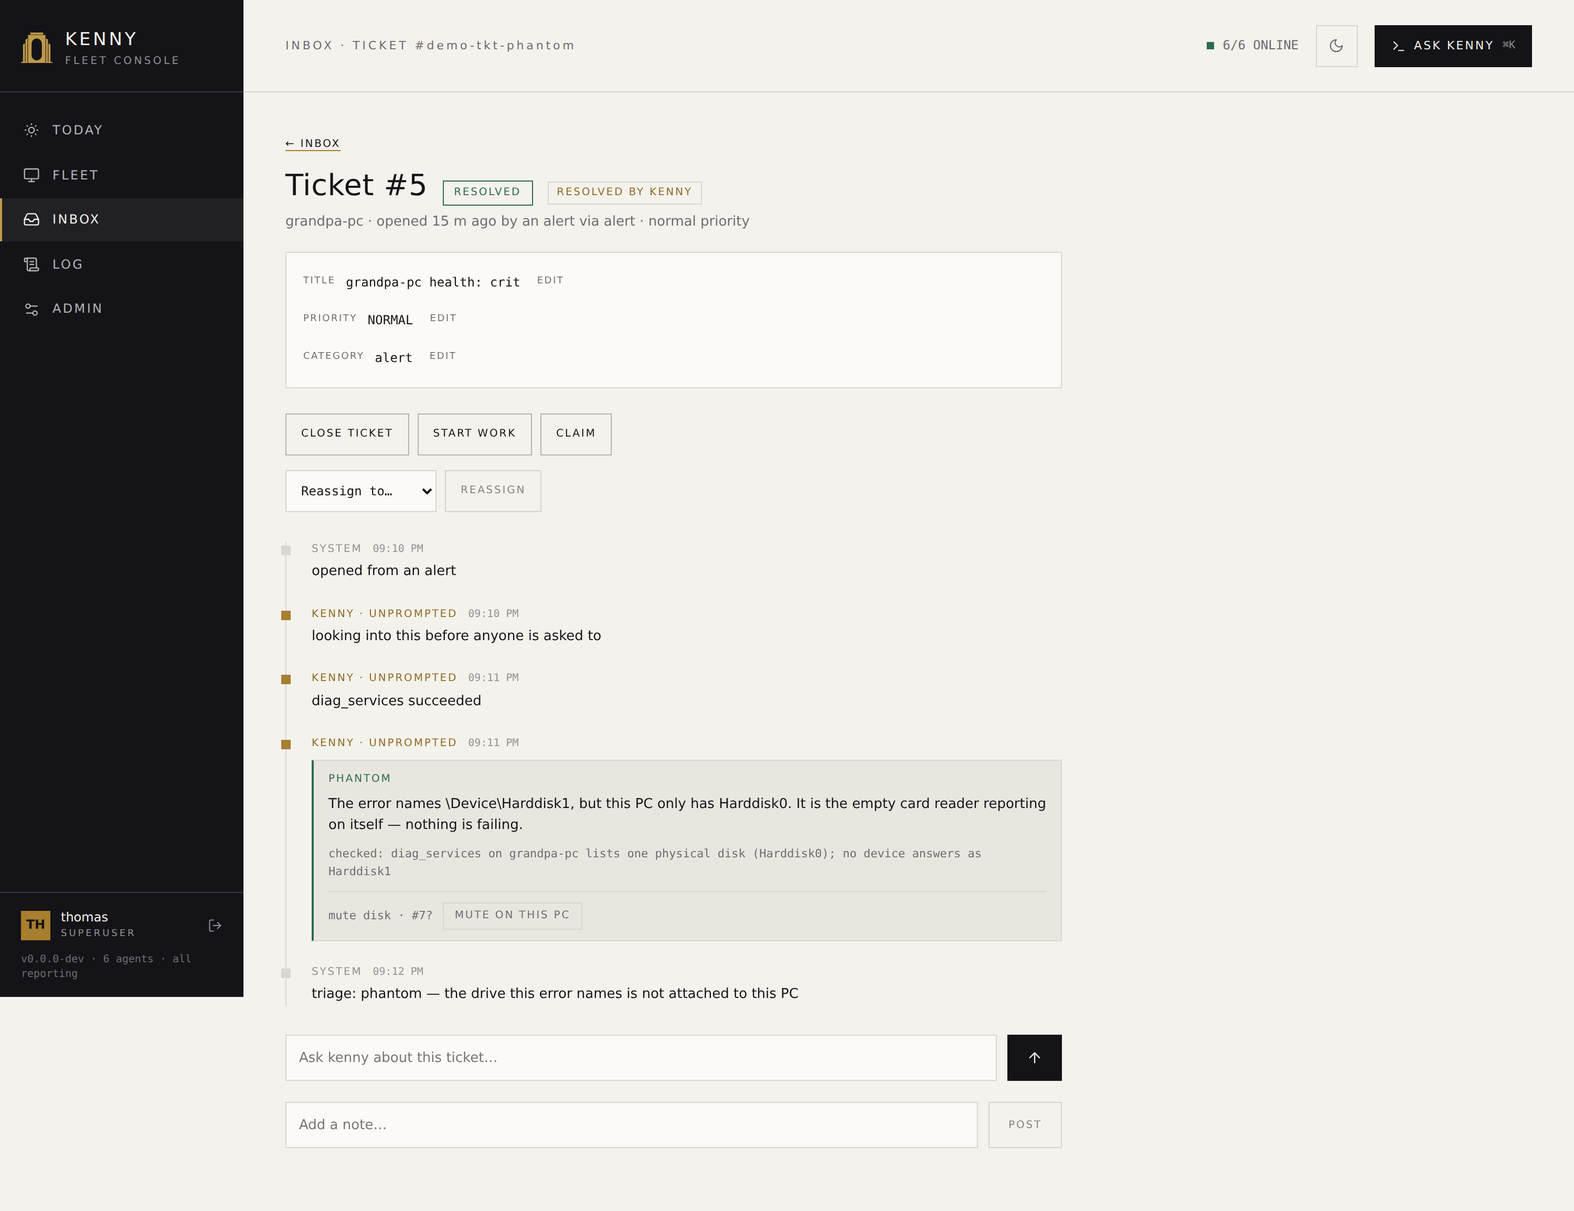
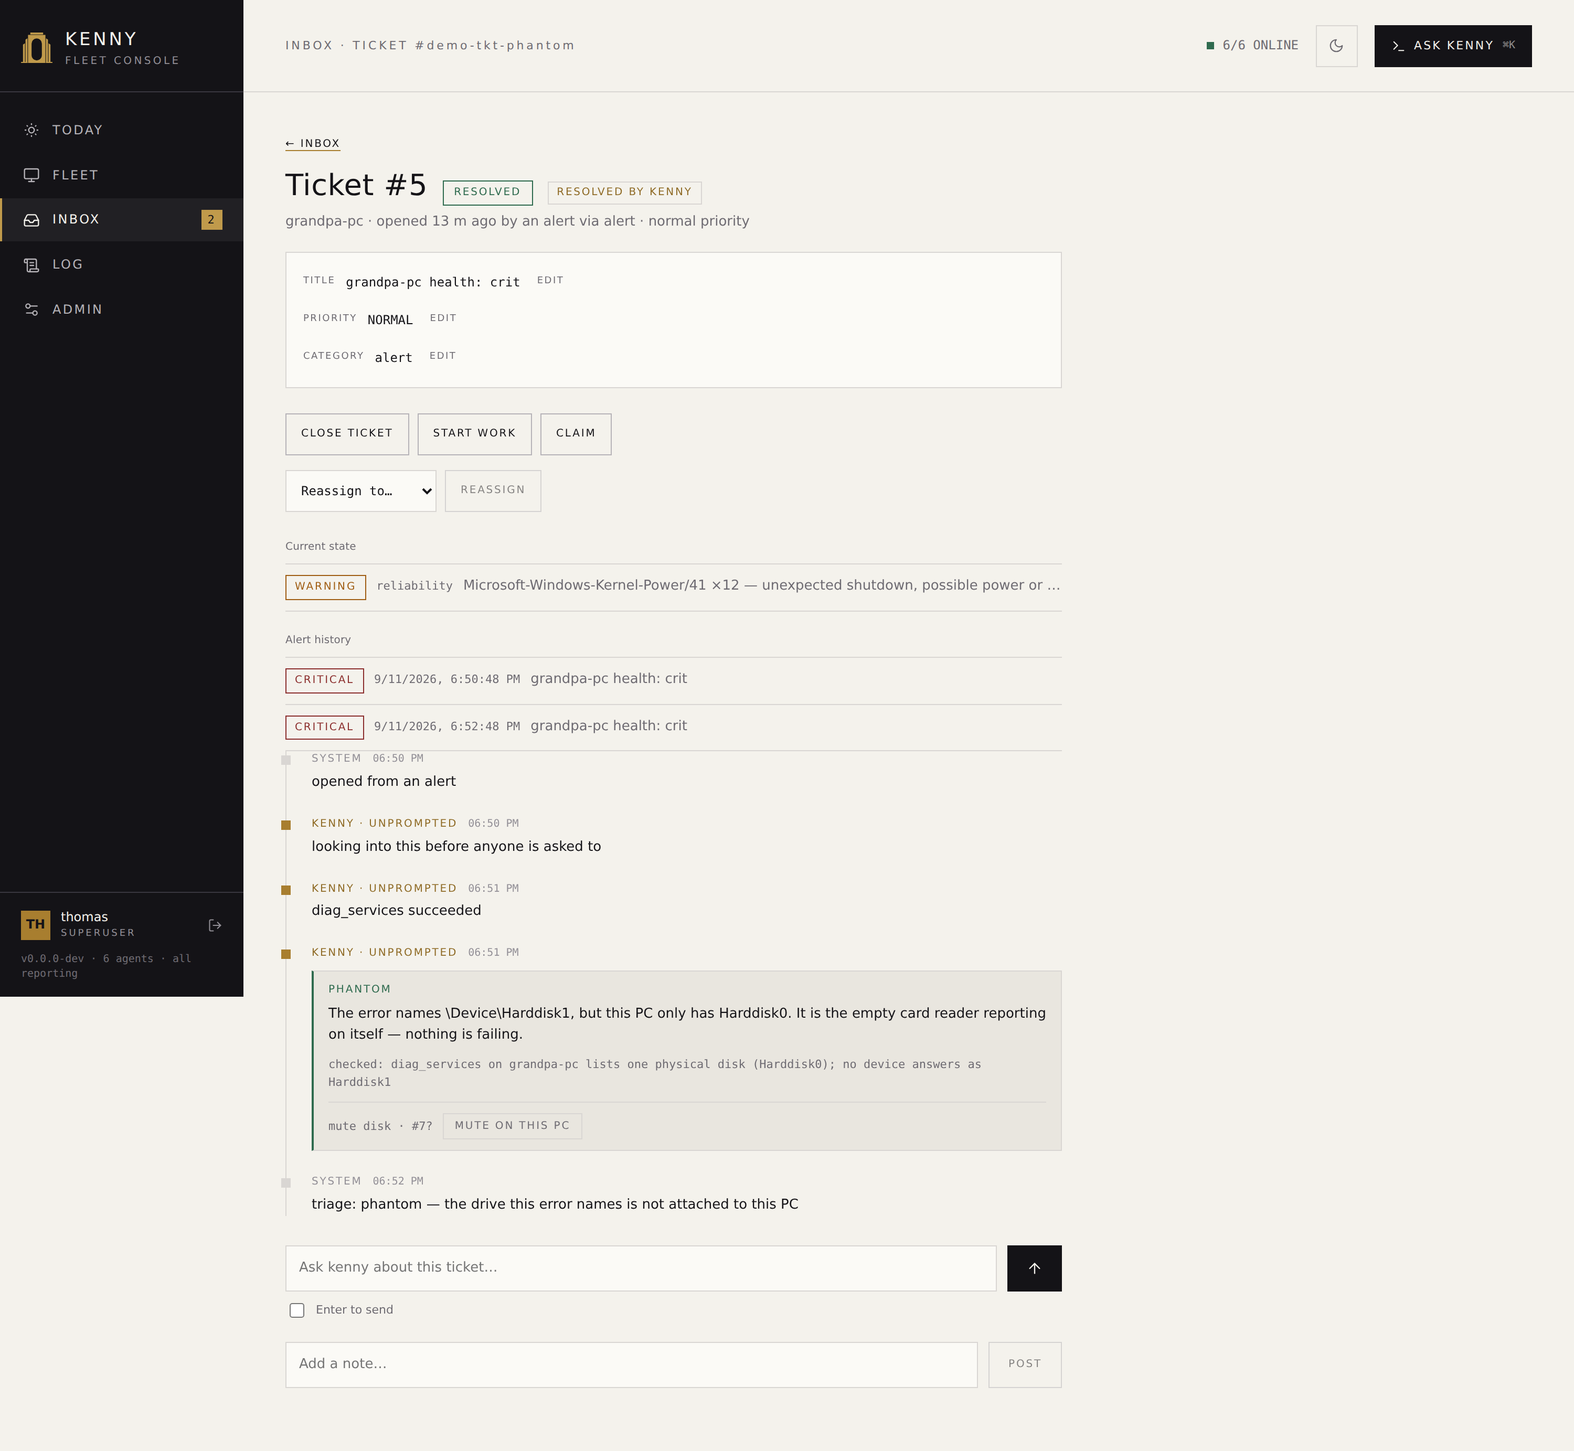
docs: record the queue's membership rule and what a ticket's alerts are
ADR-0059 names the two boundaries this change moved: what may enter the work
queue (only an entity with a lifecycle — a derived verdict is read where it
is derived), and the observability storage model (an emitted alert now
carries a durable reference to its ticket).

The deliberate non-decision is in there too, because it is the one a later
reader will challenge and otherwise find no record of: a standing crit
finding whose ticket was cancelled does not come back as a ticket. An
operator who cancelled it decided something, and a queue that re-raises what
was just dismissed teaches people to ignore it.

docs/alerting.md gains the dedupe rule, which was implemented but undocumented
anywhere: one open ticket per subject, what a subject is, why a forecast and
an acute finding on the same volume are one case while an inventory change on
the same section is not, and that a resolved ticket suppresses nothing.

The drift map's dashboard-api rule now names webui/inbox.py and
webui/tickets.py as sources and the two screenshots as outputs — it had only
webui/__init__.py, so this whole change would have passed the hook in silence.

The screenshot seed gives the demo alert ticket a subject and two linked
alerts, both timed between its creation and its resolution: a recurrence never
attaches to an already-resolved ticket, so demo data showing one would be
showing something production cannot produce. The inbox shot waits on a row
[…]

diff --git a/scripts/screenshots/seed.py b/scripts/screenshots/seed.py
@@ -108,6 +108,7 @@ async def seed_app(app: Any, base: datetime | None = None) -> SeedResult:
     await _seed_chat_history(state.chat_history_store, base)
     if getattr(state, "tickets", None) is not None:
         await _seed_tickets(state.tickets, base, user_ids)
+        await _seed_ticket_alerts(state.event_store, base)
     if getattr(state, "discord_identities", None) is not None:
         await _seed_discord_identities(state.discord_identities, base, user_ids)
 
@@ -252,6 +253,49 @@ async def _seed_activity(event_store: Any, base: datetime) -> None:
             message=message,
             target=f"kenny.{source}",
         )
+
+
+async def _seed_ticket_alerts(event_store: Any, base: datetime) -> None:
+    """The alerts an alert-origin ticket is about, linked to it.
+
+    Runs after the tickets exist: `link_alert_to_ticket` needs the ticket id,
+    and in production the same ordering holds -- `AlertEngine._dispatch` writes
+    the alert, decides, opens the ticket, and only then hangs one on the other.
+
+    Two alerts on one subject, so the ticket shows what production shows: the
+    transition that opened it, and a recurrence deduplication attached rather
+    than minting a second ticket.
+    """
+
+    # Both land between the ticket's creation (12 min ago) and its resolution:
+    # a recurrence never attaches to a ticket that is already resolved
+    # (`find_open_by_dedup_key` matches new/in_progress only), so demo data
+    # that showed one would be showing something production cannot produce.
+    for minutes, title, body in (
+        (
+            12,
+            "grandpa-pc health: crit",
+            "reliability: ok -> crit (disk/7 ×650 (~93/day) — bad block reported on a storage device)",
+        ),
+        (
+            10,
+            "grandpa-pc health: crit",
+            "reliability: still crit (disk/7 ×712 (~95/day))",
+        ),
+    ):
+        event_id = await event_store.insert_alert(
+            agent_id="grandpa-pc",
+            message=f"{title}\n{body}",
+            level="crit",
+            fields={
+                "kind": "alert",
+                "priority": "high",
+                "title": title,
+                "event_type": "health",
+            },
+            at=_iso(base - timedelta(minutes=minutes)),
+        )
+        await event_store.link_alert_to_ticket(event_id, "demo-tkt-phantom")
 
 
 async def _seed_chat_history(store: Any, base: datetime) -> None:
@@ -491,6 +535,9 @@ async def _seed_tickets(tickets: Any, base: datetime, user_ids: dict[str, int]) 
             ),
             actor="system",
             reason="opened from an alert",
+            # What this case is about, the way `alert_dedup_key` writes it --
+            # without it the ticket has no subject and shows no current state.
+            dedup_key="alert|grandpa-pc|state|reliability",
         )
         await tickets.append_event(
             phantom.id, kind="note", actor="triage",

diff --git a/scripts/screenshots/shots.py b/scripts/screenshots/shots.py
@@ -206,8 +206,8 @@ MANIFEST: list[Shot] = [
         hash="#/inbox",
         mode="full_page",
         theme="light",
-        note="default NEEDS YOU group — the printer-driver ticket's held approval gate.",
-        actions=[{"wait_for": ".kc-actions"}, {"sleep": SETTLE_MS}],
+        note="default NEEDS YOU group — one row per ticket, badged by priority.",
+        actions=[{"wait_for": "[data-shot=inbox-row]"}, {"sleep": SETTLE_MS}],
     ),
     Shot(
         name="ticket-detail",
@@ -223,8 +223,9 @@ MANIFEST: list[Shot] = [
         mode="full_page",
         theme="light",
         note=(
-            "an alert kenny investigated unprompted and closed out: the verdict, what it "
-            "checked, and the one-click mute it proposes (ADR-0056)."
+            "an alert kenny investigated unprompted and closed out: the linked alerts "
+            "and whether they still hold, the verdict, what it checked, and the "
+            "one-click mute it proposes (ADR-0056)."
         ),
         actions=[{"wait_for": "[data-shot=triage-verdict]"}, {"sleep": SETTLE_MS}],
     ),

diff --git a/docs/adr/0059-the-inbox-is-the-ticket-queue.md b/docs/adr/0059-the-inbox-is-the-ticket-queue.md
@@ -1,0 +1,121 @@
+# 0059. The inbox is the ticket queue
+
+- Status: proposed
+- Boundary moved: **what may enter the operator's work queue** — only an entity with a
+  lifecycle, never a derived value; and **the observability storage model** — an emitted
+  alert now carries a durable reference to the ticket it belongs to.
+- Touches: [ADR-0027](0027-push-alerting-ntfy-webhook-and-weekly-digest.md),
+  [ADR-0046](0046-ticket-as-entity-chat-thread-as-binding.md),
+  [ADR-0049](0049-ticket-blocked-on-axis.md)
+- Date: 2026-09-11
+
+## Context and Problem Statement
+
+`GET /api/inbox` merged three row kinds into one list: tickets, flagged health sections,
+and held approvals. They are not the same kind of thing.
+
+A **ticket** has a lifecycle — it can be claimed, worked, blocked, resolved, and a person
+can be finished with it. A **flagged section** has none: it is a verdict recomputed from
+the newest snapshot on every request, with no identity, no history and nothing to resolve.
+A **held approval** has none either, because it is not a separate thing at all — it is a
+state of the ticket that holds it (`blocked_on='approval'`, one open gate per ticket,
+enforced by a partial unique index), and that ticket was already in the same group.
+
+Two failures followed from the mixture, and neither is cosmetic:
+
+**The queue showed one finding twice.** `DEFAULT_DECISION["health"]` is `open_all`, so a
+crit/warn transition already opens a ticket. The section row beside it was usually the
+same finding again — once as a live state, once as the case opened from it.
+
+**A queue row led out of the queue.** A section has no object in the inbox, so its link
+went to `#/fleet/{host}?section=…`: a different destination, a different breadcrumb, and
+no way back to the group and scroll position the reader came from. That is not a sloppy
+route; it is what a row with nowhere of its own to go must do.
+
+ADR-0046 already settled that the case is the entity and everything else is a binding to
+it. The inbox had not been rebuilt on that.
+
+A third gap was invisible rather than annoying: nothing recorded *which* alerts a ticket
+was about. The connection existed only implicitly through the dedup key, and a recurrence
+was written to the trail as prose ("the same condition alerted again: …"). A reader could
+not ask what fired, how often, or whether it is still true.
+
+## Considered Options
+
+- **Keep the merge, fix the link.** Make the section row open its detail inside the inbox.
+- **Make everything a ticket, including standing findings.** Gap-fill: any crit/warn
+  section without an open ticket gets one.
+- **Only entities with a lifecycle enter the queue.** Derived state is read where it is
+  derived; a finding reaches the queue only through the rule that opens a ticket.
+
+## Decision Outcome
+
+Chosen option: **"only entities with a lifecycle enter the queue"**, because the
+duplication and the surprising jump are both symptoms of one cause — a row that is not a
+thing — and only this option removes the cause rather than decorating it. Giving a
+recomputed verdict a detail view inside the queue would make it look like an object
+without making it one; the next question ("why can't I close it?") has no answer.
+
+**No gap-filling.** A standing crit finding whose ticket was cancelled does not come back
+as a ticket. The operator who cancelled it decided something, and a queue that immediately
+re-raises what was just dismissed teaches people to ignore it. Standing findings are read
+on Fleet and Today, which is where they are derived.
+
+**An approval is shown, not offered, in the queue.** A row says its ticket waits for an
+approval; the decision lives on the ticket, next to the frozen call it would run. Deciding
+from a list, beside a title, is deciding without the evidence — and ADR-0045's rule that a
+tier is never permission to skip a confirmation is worth little if the confirmation is
+shown without what it confirms.
+
+**An emitted alert records its ticket.** `events` gains a nullable `ticket_id`, written
+after the ticket decision and inside alerting's existing swallow, so the link can never
+make a notification late or lost (ADR-0027). A column and not a join table: the relation
+is one-to-many with the alert on the many side, `events` has exactly one writer, and
+pruning drops the link together with the row instead of leaving an orphan.
+
+**A ticket's subject is read from its dedup key, not stored again.** The key already names
+the sections; a second column would be a second place for the same fact to be wrong.
+
+### Consequences
+
+- Good, because the queue's counts are now exactly `TicketStore.counts()`. The header
+  badge and the NEEDS YOU chip are one number by construction — `docs/dashboard.md` had
+  claimed that while the merge made it false.
+- Good, because every row opens its own ticket. No row in the queue leads to another
+  screen.
+- Good, because an alert-opened ticket can answer "what fired, how often, and is it still
+  true" without leaving the page.
+- Bad, because a crit finding that is not ticketed — a `never` rule, or a cancelled
+  ticket — is no longer visible in the queue. It is on Fleet and Today, one destination
+  away. This is the accepted cost of the membership rule and the reason it is recorded.
+- Bad / accepted, because the alert history is bounded by event retention (~30 days,
+  `EventStore.prune`) while tickets are not. An old ticket's opening alert can be gone;
+  the panel renders that as an empty history, never as an error.
+- Neutral: the row badge became the ticket's priority. The origin moved into the row's
+  secondary line, because the `ALERT` badge was what used to tell a reader that kenny
+  opened the case rather than a person.
+- Deliberately not done: a drawer or split pane. Opening a ticket is a screen change and
+  that was never the complaint; landing on a *different* screen was.
+- Explicitly out of scope: Today (`#/today`) stays a state mirror and keeps its section
+  links. It is the lage overview, not a work queue, and the membership rule is about queues.
+
+## More Information
+
+Builds on [ADR-0046](0046-ticket-as-entity-chat-thread-as-binding.md) (the case is the
+entity) and [ADR-0049](0049-ticket-blocked-on-axis.md) (the five groups and the blocked-on
+axis this queue renders). Leaves [ADR-0027](0027-push-alerting-ntfy-webhook-and-weekly-digest.md)'s
+transitions-only rule untouched: nothing here makes the alert loop react to standing state.
+No wire-contract impact — this sits entirely above the agent tunnel, as
+[ADR-0050](0050-the-ticket-is-its-own-chat-surface.md) recorded for the ticket surface;
+`docs/protocol.md` and `docs/fixtures/` are unchanged and `PROTOCOL_VERSION` does not move.
+
+Code: `kenny-server/kenny_server/webui/inbox.py`, `alert_subject.py`, `ticket_alerts.py`,
+`store.py` (`EventStore`), `alerting.py` (`_dispatch`, `_forecast_alert`), `main.py`
+(`alert_dedup_key`, `open_alert_ticket`), `ticketstore.py` (`_migrate_dedup_keys`),
+`kenny-web/src/views/Inbox.tsx`, `kenny-web/src/views/inbox/InboxRow.tsx`,
+`kenny-web/src/views/ticket/LinkedAlerts.tsx`.
+
+Tests: `tests/test_inbox_api.py`, `test_alert_subject.py`, `test_ticket_alerts.py`,
+`test_main_wiring.py`, `test_migration.py`, `test_alerting.py`,
+`kenny-web/src/views/ticket/LinkedAlerts.test.tsx`,
+`kenny-web/src/views/inbox/InboxRow.test.tsx`.

diff --git a/docs/dashboard.md b/docs/dashboard.md
@@ -308,38 +308,35 @@ machine rather than what was requested. See
 
 <figure markdown>
   ![The Inbox page](assets/screenshots/inbox.png)
-  <figcaption>Inbox: approvals, flagged sections, and tickets — one queue, grouped by who it waits on.</figcaption>
+  <figcaption>Inbox: every ticket you can see, grouped by who it waits on.</figcaption>
 </figure>
 
-Approvals, flagged sections, and tickets, merged into **one queue** grouped by **who it
-waits on**:
+**Every row is a ticket**, grouped by **who the ball is with**:
 
 | Group | Meaning |
 |---|---|
-| **NEEDS YOU** | A held approval, an unaddressed critical or warning section, or anything else waiting on an operator's decision right now. |
+| **NEEDS YOU** | A ticket blocked on an approval or on an operator, or an alert-opened ticket nobody has looked at yet. |
 | **WAITING** | A ticket blocked on a reply — from the requester or from telemetry — that isn't yours to unblock yet. |
 | **WORKING** | Kenny (or an operator) is actively working it. |
-| **NEW** | Just opened — often auto-opened from an alert — and nobody has looked yet. |
+| **NEW** | Just opened by a person, and not started. |
 | **DONE** | Resolved; still visible until it auto-closes. |
 
 Each group is a chip with a live count; clicking one filters the list (`#/inbox/{group}`).
 The header's Inbox badge mirrors NEEDS YOU's count.
 
-A row shows a **kind** tag (`APPROVAL`, `CRITICAL`, `WARNING`, `TICKET`, or `ALERT`), a
-title, a one-line meta description, and an age. Clicking a ticket or approval row opens
-[ticket detail](#ticket-detail); clicking a flagged-section row opens **that section's
-detail** on its [host page](#the-host-page) (`#/fleet/{host}?section={name}`) — the
-finding the row is about, not just the machine it sits on.
+A row shows the ticket's **priority** (`URGENT`, `HIGH`, `NORMAL`, `LOW`), its title, a
+one-line meta description — the ticket's ref, where it came from, and what it is waiting
+for — and an age. **Every row opens [ticket detail](#ticket-detail)**; no row in this
+queue leads anywhere else.
 
-### Approval gates
+A ticket waiting for an approval says so, and the decision itself is on the ticket, next
+to the frozen call it would run.
 
-A row that is a held approval renders **inline**, right in the queue: the exact tool, its
-**frozen arguments**, and **Approve & run** / **Deny** / **Decide later**. This is the
-same decision surface as [ticket detail](#ticket-detail)'s inline gate — deciding one from
-either place resolves the same held call
-(`POST /api/approvals/{id}`). When the response comes back `resumed: false`, kenny is
-telling you the decision was recorded but the ticket could not be continued
-automatically — that is reported plainly, not as a bare success.
+A standing critical or warning finding reaches this queue only as the ticket an
+[auto-ticket rule](#auto-ticket-rules) opened from it. A finding with no ticket — a rule
+set to `never`, or a ticket somebody cancelled — is read where it is derived, on
+[Fleet](#the-host-page) and [Today](#today). The queue carries cases, not conditions
+(ADR-0059).
 
 ### New ticket
 
@@ -367,6 +364,15 @@ from a cold load, not just from clicking through the queue. It shows:
   requester, assignee (both shown by username, not a bare id), target PC, and the
   created/updated timestamps.
 - Kenny's running **summary**, and the **resolution** once one is set.
+- For a ticket an alert opened: **what fired and whether it still holds**. *Current state*
+  is the live verdict of the sections the ticket is about — re-evaluated from the newest
+  telemetry snapshot, so it answers the question standing between you and closing the
+  case: *is the problem still there?* A section that recovered while the ticket stayed
+  open says so. *Alert history* is the alert that opened the ticket plus every later
+  recurrence that was [deduplicated](alerting.md#an-alert-can-open-a-ticket) onto it.
+  Clicking either expands it **in place** — nothing here navigates away from the ticket.
+  The history is bounded by event retention (~30 days) while tickets are not, so an old
+  ticket can show current state with no history left; that is expected, not an error.
 - A **RESOLVED BY KENNY** chip next to the status, when an unprompted
   [investigation](itsm.md#kenny-looks-first-before-you-are-asked-to) — not a person — put
   the ticket in the state it is in. It is a chip and not a footnote because it changes how

diff --git a/docs/alerting.md b/docs/alerting.md
@@ -77,6 +77,27 @@ is operator-only in the [Inbox](dashboard.md#inbox): a scoped `user` never sees 
 starts life pinned to the alerting agent, at `high` priority for a `high`/`urgent`
 notification and `normal` otherwise, with the alert's own message as its opening summary.
 
+### One open ticket per subject
+
+A condition that keeps re-crossing its threshold would otherwise mint a fresh ticket every
+time it did. Instead, an alert is keyed by its **subject** — the host, plus the sections it
+is about (or the producer's name, for `offline`, which is about the host itself). While a
+ticket for that subject is still open, the alert is recorded **on that ticket** rather than
+opening a second one, and it shows up in the ticket's own
+[alert history](dashboard.md#ticket-detail).
+
+Two consequences worth knowing:
+
+- A health finding and a disk-fill forecast about the same volume are **one** case. Both
+  name the `disk` section, so the forecast attaches to the ticket the acute finding opened,
+  or the other way round.
+- An **inventory change** never shares a ticket with a health finding, even on the same
+  section. "a new service appeared" and "a service is failing" are different kinds of fact:
+  only the second can come back to `ok`, so only the second has a current state to check.
+
+A `resolved` ticket does **not** suppress a new one: once somebody has dealt with the
+condition, its return is news again.
+
 ### Which events open a ticket is configurable
 
 By default, every genuine alert — a health escalation, an agent going offline, a disk-fill
@@ -133,7 +154,9 @@ rather than a scary made-up number:
 
 - **Disk-fill forecast** — *days until full* per volume. Under **~14 days** raises an
   alert (re-firing at most every 24 h); under **~30 days** shows as a Today KPI and in
-  the weekly digest.
+  the weekly digest. The forecast names the `disk` section, so it shares a ticket with an
+  acute disk finding on the same host, and an auto-ticket rule can target
+  `disk_forecast` + `disk`.
 - **Battery drift** — health change as **percent per 30 days**; a meaningful decline
   appears in the digest.
 

diff --git a/docs/itsm.md b/docs/itsm.md
@@ -42,6 +42,14 @@ approval and state change underneath it. Three things can open one:
   opening tickets) or widen it (e.g. promote an inventory change, like a new local admin
   account, into one). See
   [Alerting → which events open a ticket](alerting.md#which-events-open-a-ticket-is-configurable).
+  While a ticket for the same subject is still open, a repeat alert is recorded **on that
+  ticket** instead of opening a second one, and is readable there — see
+  [one open ticket per subject](alerting.md#one-open-ticket-per-subject).
+
+The [Inbox](dashboard.md#inbox) is the queue of these tickets, and only of these tickets:
+every row there is a ticket, and every row opens its ticket. A standing critical or warning
+finding that no rule turned into a ticket is read on
+[Fleet](dashboard.md#the-host-page) and [Today](dashboard.md#today) instead.
 
 The dashboard is no longer just where you read, note, reassign and close a ticket — the
 ticket detail view has its own **chat with kenny**, gated the same way Discord always was,

diff --git a/docs/adr/README.md b/docs/adr/README.md
@@ -76,3 +76,4 @@ kind of record kenny keeps. What qualifies: *When (not) to write an ADR* in the 
 | [0056](0056-unprompted-ticket-triage.md) | Unprompted ticket triage, and what may let it act | accepted |
 | [0057](0057-anonymous-github-reads-for-agent-distribution.md) | Read GitHub releases anonymously for agent distribution | accepted |
 | [0058](0058-time-aware-findings-and-incident-posture-split.md) | Time-aware findings with an incident/posture split | accepted |
+| [0059](0059-the-inbox-is-the-ticket-queue.md) | The inbox is the ticket queue | proposed |
